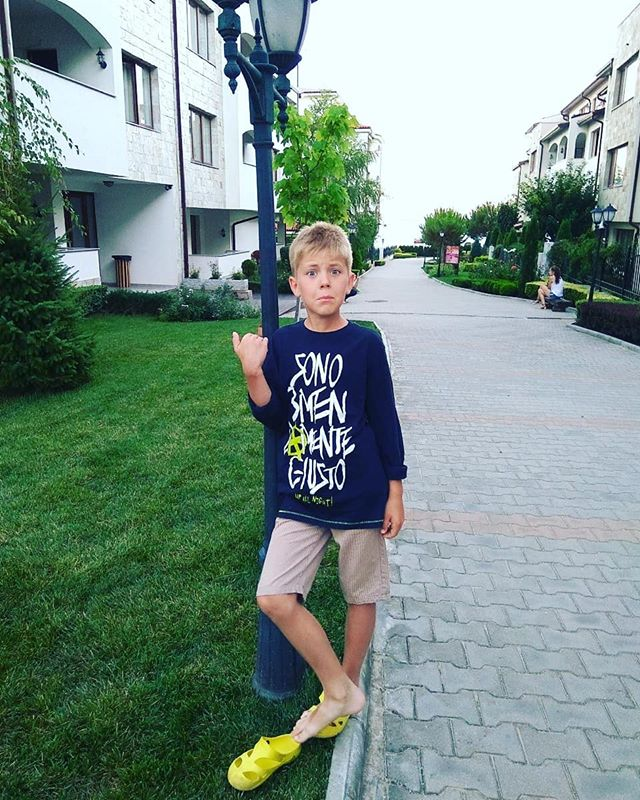
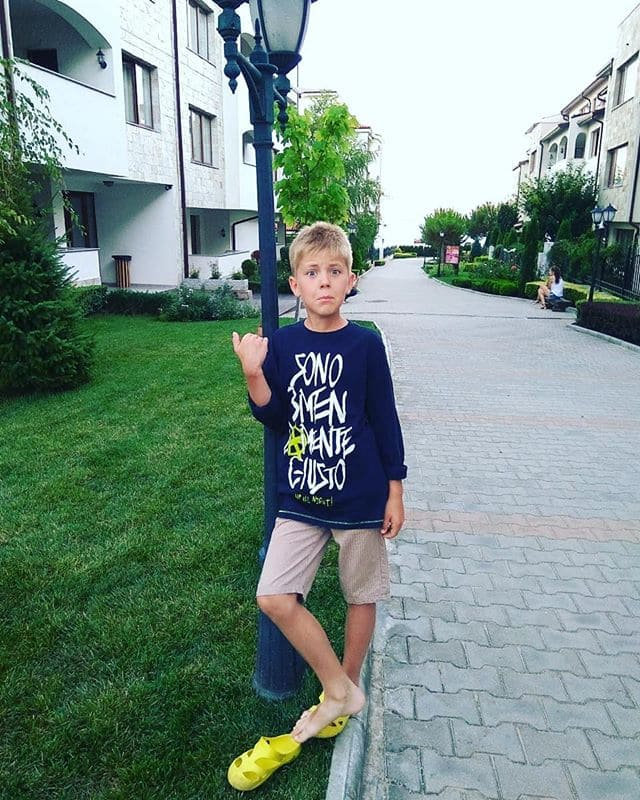
compressing img, +tab color

Changed region(s): [[0.4688, 0.5312, 0.5, 0.5625], [0.0312, 0.125, 0.0625, 0.1562]]

diff --git a/index.html b/index.html
@@ -7,11 +7,14 @@
 	<meta name="keywords" content="Илья Тишко, Илья Тишко художница, Елена Кияница, картины на заказ, купить картины, картины маслом, портрет, животные, пейзажи, галерея">
 	<meta name="description" content="Я с детства хотела только рисовать, и больше ничего... Я лишь познаю то, что происходит у меня глубоко внутри, в моём сердце. И это чувство никогда не исчезает. Живопись стала для меня дыханием. Первые пейзажи окунули меня в какой-то замечательный цветной мир. Каждый день я ждала вечера, выходных, чтобы взяться за краски, почувствовать их запах, чтобы опять случилось маленькое чудо - картина. Меня потрясает и вдохновляет это чувство - чувство творчества и свободы.">
 	<meta name="author" content="Илья Тишко">
+	<!-- Tab calor -->
+	<meta name="theme-color" content="#fff6eb">
 
 	<!-- Load CSS Compilled without JS -->
 	<noscript><link rel="stylesheet" href="compiled.min.css"></noscript>
 
 	<link rel="shortcut icon" href="img/favicon.png" type="image/x-icon">
+	<link rel="icon" sizes="192x192" href="img/favicon128x128">
 	<link rel="stylesheet" href="css/animate.css">
 	<link rel="stylesheet" href="css/main.css">
 </head>
